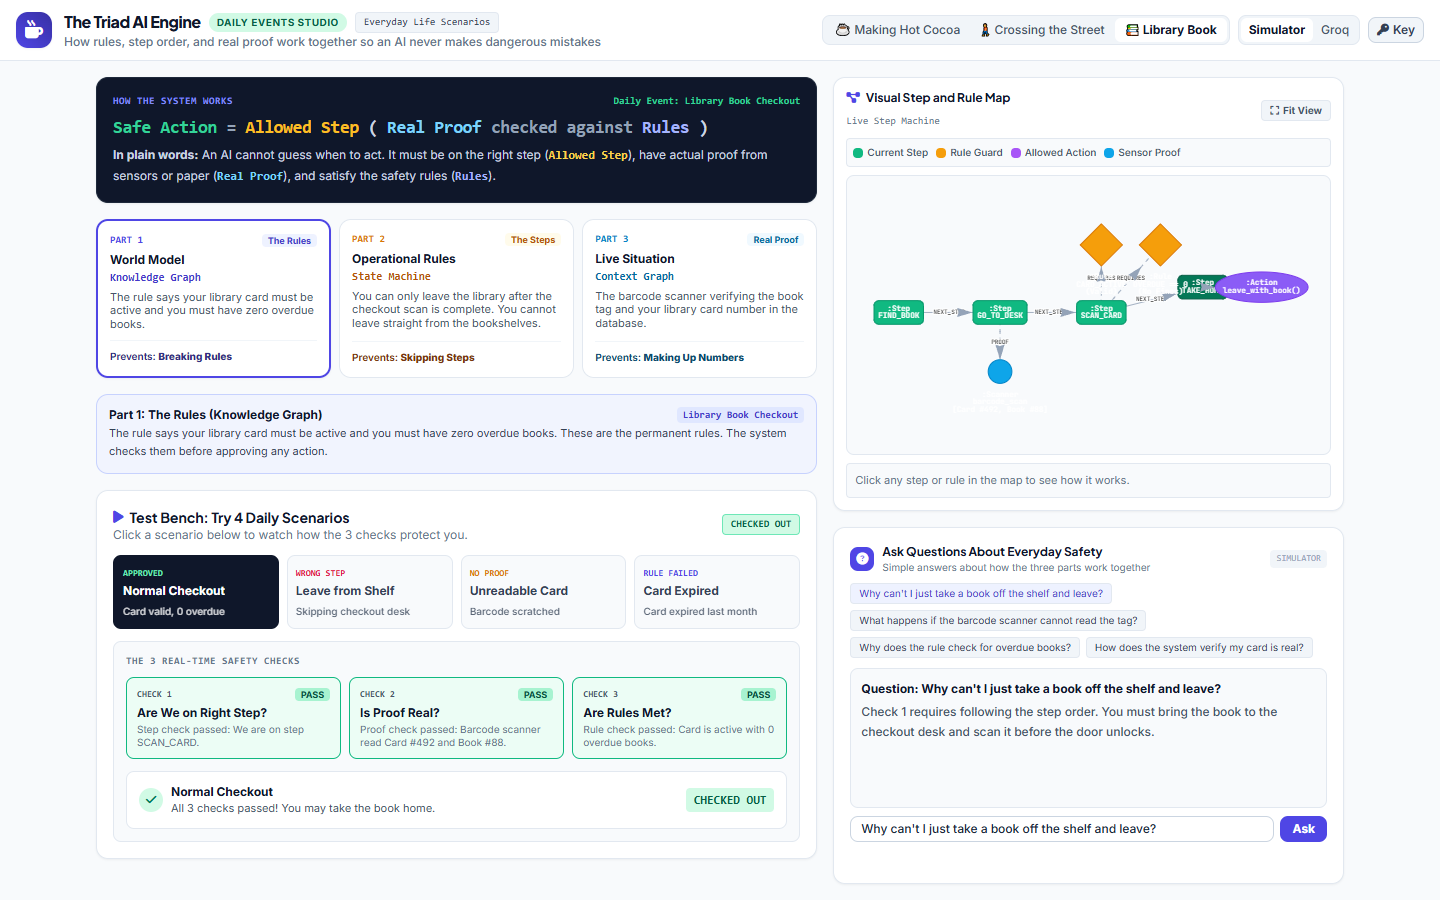
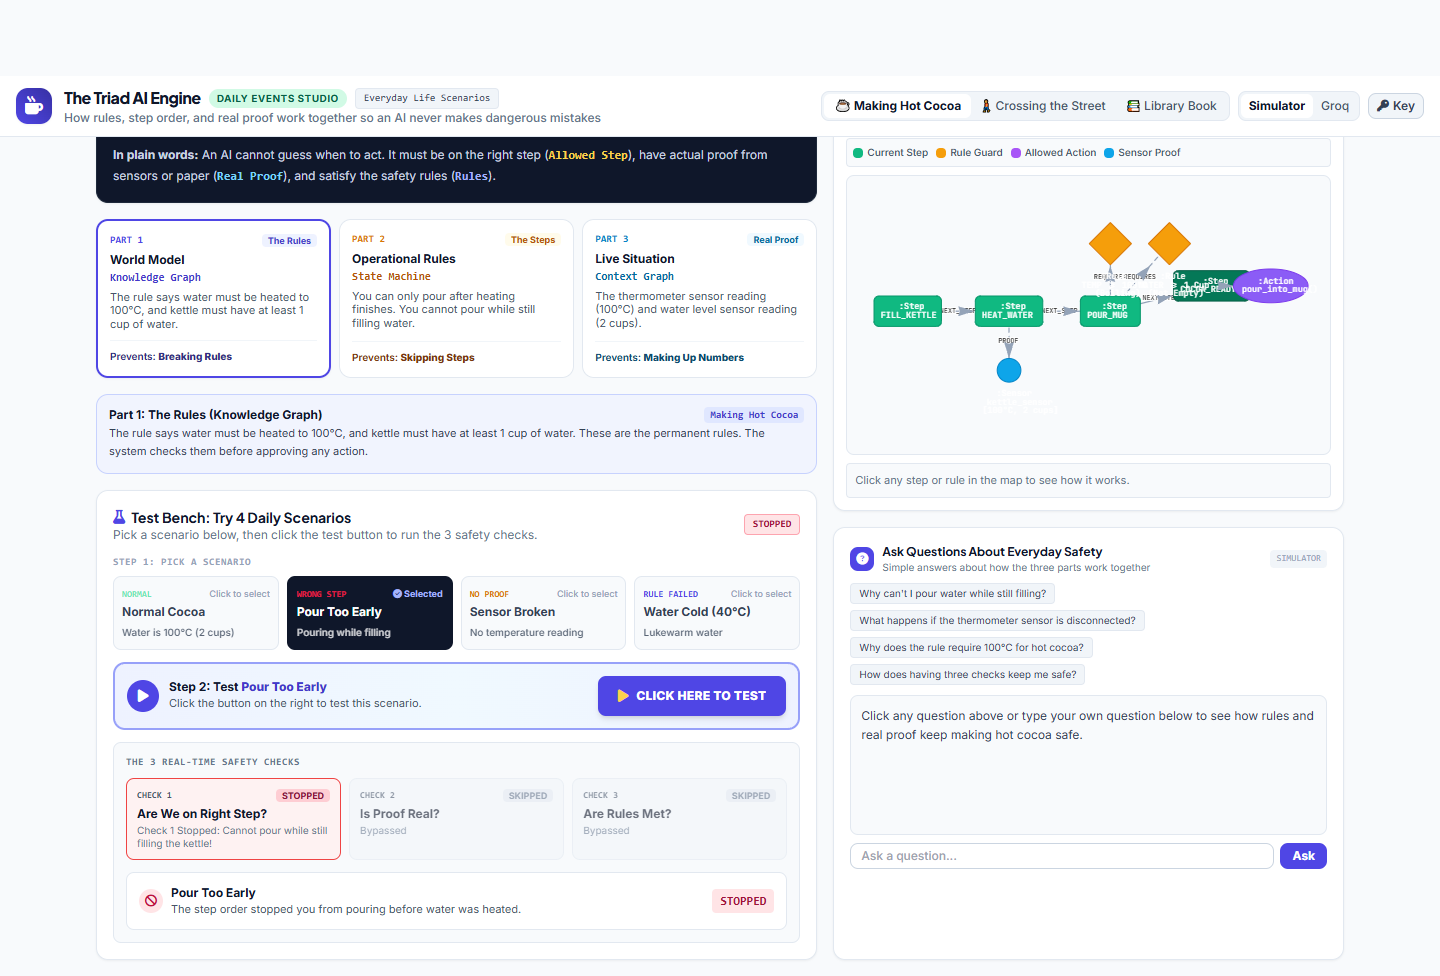
feat: Add prominent CLICK HERE TO TEST button

diff --git a/deterministic_ai_studio.html b/deterministic_ai_studio.html
@@ -208,11 +208,11 @@
         <div class="flex items-center justify-between">
           <div>
             <h2 class="text-sm font-bold text-slate-900 flex items-center gap-1.5">
-              <i class="fa-solid fa-play text-indigo-600"></i>
+              <i class="fa-solid fa-flask text-indigo-600"></i>
               Test Bench: Try 4 Daily Scenarios
             </h2>
             <p class="text-xs text-slate-500">
-              Click a scenario below to watch how the 3 checks protect you.
+              Pick a scenario below, then click the test button to run the 3 safety checks.
             </p>
           </div>
           <span id="badge-kernel-status" class="text-[10px] font-mono font-bold px-2 py-0.5 rounded bg-slate-100 text-slate-700 border border-slate-300">
@@ -221,8 +221,34 @@
         </div>
 
         <!-- 4 SCENARIO BUTTONS (UPDATED DYNAMICALLY PER THEME) -->
-        <div class="grid grid-cols-2 md:grid-cols-4 gap-2" id="box-scenario-buttons">
-          <!-- Injected via updateScenarioButtons() -->
+        <div>
+          <div class="text-[10px] font-mono font-bold text-slate-400 uppercase tracking-wider mb-1.5">
+            Step 1: Pick a Scenario
+          </div>
+          <div class="grid grid-cols-2 md:grid-cols-4 gap-2" id="box-scenario-buttons">
+            <!-- Injected via updateScenarioButtons() -->
+          </div>
+        </div>
+
+        <!-- PROMINENT BIG TEST BUTTON (UNMISSABLE) -->
+        <div class="flex flex-col sm:flex-row sm:items-center justify-between gap-2.5 bg-gradient-to-r from-indigo-50 via-sky-50 to-indigo-50 border-2 border-indigo-400/80 rounded-xl p-3 shadow-xs">
+          <div class="flex items-center gap-2.5">
+            <div class="w-8 h-8 rounded-full bg-indigo-600 text-white flex items-center justify-center font-bold text-sm shadow-xs">
+              <i class="fa-solid fa-play"></i>
+            </div>
+            <div>
+              <div class="text-xs font-bold text-slate-900">
+                Step 2: Test <span id="label-active-scenario" class="text-indigo-700 font-extrabold">Normal Cocoa</span>
+              </div>
+              <div class="text-[11px] text-slate-600">
+                Click the button on the right to test this scenario.
+              </div>
+            </div>
+          </div>
+          <button id="btn-main-run-test" onclick="runActiveExperiment()" class="px-5 py-2.5 rounded-lg font-extrabold text-xs bg-indigo-600 hover:bg-indigo-700 active:bg-indigo-800 text-white shadow-md flex items-center justify-center gap-2 transition hover:scale-[1.02] active:scale-95 cursor-pointer">
+            <i class="fa-solid fa-play text-amber-300 text-sm"></i>
+            <span class="tracking-wide">CLICK HERE TO TEST</span>
+          </button>
         </div>
 
         <!-- THE 3 EXECUTION CHECKS VISUALIZER -->
@@ -397,6 +423,7 @@
     // 1. DAILY EVENT THEMES & SCENARIOS
     // =================================================================
     let currentTheme = 'cocoa';
+    let activeExperimentKey = 'exp_a';
     let activeEngine = 'sim';
     let groqApiKey = localStorage.getItem('triad_groq_key') || '';
     let network = null;
@@ -656,6 +683,7 @@
 
     function switchTheme(themeKey) {
       currentTheme = themeKey;
+      activeExperimentKey = 'exp_a';
       const t = THEMES[themeKey];
 
       // Update Top Buttons
@@ -670,6 +698,7 @@
 
       // Update Labels
       document.getElementById('label-active-event-name').textContent = "Daily Event: " + t.name;
+      document.getElementById('label-active-scenario').textContent = t.experiments.exp_a.title;
       document.getElementById('desc-pillar-1').textContent = t.pillar1_desc;
       document.getElementById('desc-pillar-2').textContent = t.pillar2_desc;
       document.getElementById('desc-pillar-3').textContent = t.pillar3_desc;
@@ -680,25 +709,14 @@
       // Render Graph
       renderVisNetwork(t);
 
-      // Update Scenario Buttons
+      // Update Scenario Buttons & Run immediately
       updateScenarioButtons(t);
 
       // Update Questions
       updateQuestionsUI(t);
 
-      // Reset Banner
-      document.getElementById('badge-kernel-status').textContent = "Ready to Test";
-      document.getElementById('badge-kernel-status').className = "text-[10px] font-mono font-bold px-2 py-0.5 rounded bg-slate-100 text-slate-700 border border-slate-300";
-      document.getElementById('result-title').textContent = "Select a scenario above to test";
-      document.getElementById('result-desc').textContent = "Watch the 3 checks evaluate each part step-by-step.";
-      document.getElementById('result-code').textContent = "STANDBY";
-      document.getElementById('result-code').className = "font-mono text-xs font-bold px-2 py-1 rounded bg-slate-100 text-slate-600";
-      document.getElementById('result-icon').className = "w-6 h-6 rounded-full bg-slate-200 text-slate-700 flex items-center justify-center font-bold text-xs";
-      document.getElementById('result-icon').innerHTML = `<i class="fa-solid fa-play"></i>`;
-
-      setGateUI(1, 'pending', 'Checks if action is allowed in this step.');
-      setGateUI(2, 'pending', 'Checks if numbers come from real sensor or paper.');
-      setGateUI(3, 'pending', 'Checks if condition passes the safety rules.');
+      // Run initial experiment automatically
+      runExperiment('exp_a');
     }
 
     function selectPillar(num) {
@@ -741,15 +759,21 @@
       let html = '';
 
       const keys = ['exp_a', 'exp_b', 'exp_c', 'exp_d'];
-      const borderColors = ['border-slate-900', 'border-slate-200', 'border-slate-200', 'border-slate-200'];
-      const bgColors = ['bg-slate-900 text-white', 'bg-slate-50 text-slate-700', 'bg-slate-50 text-slate-700', 'bg-slate-50 text-slate-700'];
       const badgeColors = ['text-emerald-300', 'text-rose-600', 'text-amber-600', 'text-indigo-600'];
 
       keys.forEach((k, idx) => {
         const e = exps[k];
+        const isSelected = (k === activeExperimentKey);
+        const cardStyle = isSelected
+          ? "border-2 border-indigo-600 bg-slate-900 text-white shadow-xs ring-2 ring-indigo-400"
+          : "border border-slate-200 bg-slate-50 hover:bg-slate-100 text-slate-700";
+
         html += `
-          <button onclick="runExperiment('${k}')" id="btn-exp-${k}" class="p-2 rounded-lg text-left border ${borderColors[idx]} ${bgColors[idx]} font-medium text-xs transition shadow-2xs">
-            <div class="text-[9px] font-mono ${badgeColors[idx]} font-bold uppercase">${e.badge}</div>
+          <button onclick="selectScenario('${k}')" id="btn-exp-${k}" class="p-2.5 rounded-lg text-left ${cardStyle} font-medium text-xs transition cursor-pointer">
+            <div class="flex items-center justify-between">
+              <span class="text-[9px] font-mono ${badgeColors[idx]} font-bold uppercase">${e.badge}</span>
+              ${isSelected ? '<span class="text-[9px] text-indigo-300 font-bold"><i class="fa-solid fa-circle-check"></i> Selected</span>' : '<span class="text-[9px] text-slate-400">Click to select</span>'}
+            </div>
             <div class="font-bold text-xs mt-0.5">${e.title}</div>
             <div class="text-[10px] opacity-80 mt-1">${e.desc}</div>
           </button>
@@ -757,6 +781,21 @@
       });
 
       container.innerHTML = html;
+    }
+
+    function selectScenario(key) {
+      activeExperimentKey = key;
+      const t = THEMES[currentTheme];
+      const exp = t.experiments[key];
+      if (exp) {
+        document.getElementById('label-active-scenario').textContent = exp.title;
+      }
+      updateScenarioButtons(t);
+      runExperiment(key);
+    }
+
+    function runActiveExperiment() {
+      runExperiment(activeExperimentKey);
     }
 
     function updateQuestionsUI(t) {
@@ -780,13 +819,15 @@
       const container = document.getElementById('graph-canvas');
       const nodes = new vis.DataSet(t.nodes.map(n => ({
         ...n,
-        font: { color: '#ffffff', face: 'JetBrains Mono', size: 9, bold: true }
+        font: { color: '#ffffff', face: 'JetBrains Mono', size: 10, bold: true },
+        margin: 8
       })));
 
       const edges = new vis.DataSet(t.edges.map(e => ({
         ...e,
-        font: { size: 7, face: 'JetBrains Mono' },
-        color: { color: e.color || '#94a3b8' }
+        font: { size: 8, face: 'JetBrains Mono', align: 'horizontal' },
+        color: { color: e.color || '#94a3b8' },
+        width: 1.5
       })));
 
       const data = { nodes: nodes, edges: edges };
@@ -797,7 +838,14 @@
 
       if (network) network.destroy();
       network = new vis.Network(container, data, options);
-      network.fit();
+      
+      // Delay fit to ensure mobile layout has rendered
+      setTimeout(() => {
+        if (network) network.fit();
+      }, 150);
+      setTimeout(() => {
+        if (network) network.fit();
+      }, 500);
 
       network.on("click", (params) => {
         if (params.nodes.length > 0) {
